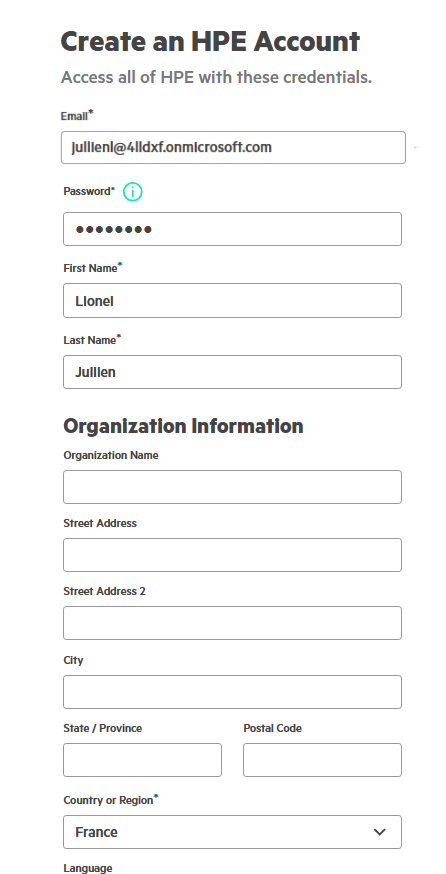
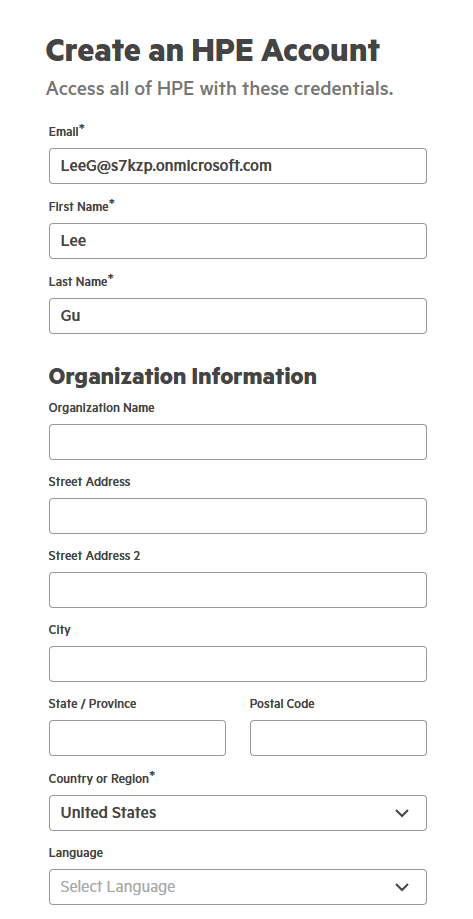
Update blog

diff --git a/_posts/2025-11-07-Configuring-SAML-SSO-with-HPE-GreenLake-and-Passwordless-Authentication-for-HPECOMCmdlets.md b/_posts/2025-11-07-Configuring-SAML-SSO-with-HPE-GreenLake-and-Passwordless-Authentication-for-HPECOMCmdlets.md
@@ -299,6 +299,8 @@ This completes the Entra ID application configuration for HPE GreenLake. You can
 
 ### Step 2: Register Entra ID in HPE GreenLake
 
+> **Learn More**: For detailed instructions on configuring SAML in HPE GreenLake, refer to the official [SAML-SSO authentication](https://support.hpe.com/hpesc/public/docDisplay?docId=a00120892en_us&page=GUID-D7192971-EF71-4304-B51E-548E7954E644.html#ariaid-title1) documentation.
+
 To complete the SAML SSO configuration, you need to register your Entra ID identity provider in HPE GreenLake and designate a workspace administrator:
 
 1. **Access Workspace Management**
@@ -311,16 +313,32 @@ To complete the SAML SSO configuration, you need to register your Entra ID ident
 
     Before registering the identity provider, you must designate a workspace administrator to finalize the SAML SSO configuration. This administrator's email address must belong to the domain you are claiming for SSO (e.g., `admin@your-sso-domain.com`).
 
-    - Navigate to the **Workspace identity & access** tile and select **Invite users**.
-    - Invite a user from your SAML domain and assign the **Workspace Administrator** HPE GreenLake role.
+    - Navigate to the **Identity & access management** tile:
 
-        [![]( {{ site.baseurl }}/assets/images/SAML-SSO/SAML-SSO-23.png)]( {{ site.baseurl }}/assets/images/SAML-SSO/SAML-SSO-23.png){:class="img-400"}{: data-lightbox="gallery"}
+        [![]( {{ site.baseurl }}/assets/images/SAML-SSO/SAML-SSO-22a.png)]( {{ site.baseurl }}/assets/images/SAML-SSO/SAML-SSO-22a.png){:class="img-100pct"}{: data-lightbox="gallery"}
 
-        > **Important**: The invited user must be a workspace administrator to complete the SAML domain setup. This user does not need to be a member of the identity provider security group configured in Step 1, but their email address must belong to the domain being claimed for SSO.
+    - Select **Add users**:
+
+        [![]( {{ site.baseurl }}/assets/images/SAML-SSO/SAML-SSO-22b.png)]( {{ site.baseurl }}/assets/images/SAML-SSO/SAML-SSO-22b.png){:class="img-100pct"}{: data-lightbox="gallery"}
+    
+    - In the **Add users** dialog, select **New user** and enter the email address of the designated administrator. This user must belong to the domain you intend to claim for SSO.     
+    
+        [![]( {{ site.baseurl }}/assets/images/SAML-SSO/SAML-SSO-22c.png)]( {{ site.baseurl }}/assets/images/SAML-SSO/SAML-SSO-22c.png){:class="img-700"}{: data-lightbox="gallery"}
+
+    - Click on **Assign role** and assign the built-in **Identity domain and SSO administrator** HPE GreenLake Platform role:
+
+        [![]( {{ site.baseurl }}/assets/images/SAML-SSO/SAML-SSO-22d.png)]( {{ site.baseurl }}/assets/images/SAML-SSO/SAML-SSO-22d.png){:class="img-400"}{: data-lightbox="gallery"}
+
+        > **Important**: The **Identity domain and SSO administrator** role grants the necessary permissions to configure the SAML domain. While a "Workspace Administrator" also has these permissions, this built-in role is specifically designed for this task. The user's email address must belong to the domain being claimed for SSO.
+
+    - Make sure **Send welcome invitation email** is checked then click **Add user**.
+
+        [![]( {{ site.baseurl }}/assets/images/SAML-SSO/SAML-SSO-23.png)]( {{ site.baseurl }}/assets/images/SAML-SSO/SAML-SSO-23.png){:class="img-700"}{: data-lightbox="gallery"}
+
 
     **Complete the claiming process:**
 
-    The invited user must complete the following steps to claim workspace administrator access:
+    The invited user must complete the following steps to claim Identity domain and SSO administrator access:
 
     1. Check email for the HPE GreenLake invitation and click **Accept invitation**.
         
@@ -329,57 +347,54 @@ To complete the SAML SSO configuration, you need to register your Entra ID ident
     2. Complete the HPE account creation form.
 
         [![]( {{ site.baseurl }}/assets/images/SAML-SSO/SAML-SSO-25.png)]( {{ site.baseurl }}/assets/images/SAML-SSO/SAML-SSO-25.png){:class="img-400"}{: data-lightbox="gallery"}
-
+    
     3. Check email again for the account activation message and click **Activate HPE account**.
 
         [![]( {{ site.baseurl }}/assets/images/SAML-SSO/SAML-SSO-26.png)]( {{ site.baseurl }}/assets/images/SAML-SSO/SAML-SSO-26.png){:class="img-600"}{: data-lightbox="gallery"}
 
-    4. Upon activation, the user will be redirected to the HPE GreenLake console and can log in to proceed with the SAML configuration.
+    6. Upon activation, the user will be redirected to the HPE GreenLake console and ask to choose a password for the account. 
+
+        [![]( {{ site.baseurl }}/assets/images/SAML-SSO/SAML-SSO-26a.png)]( {{ site.baseurl }}/assets/images/SAML-SSO/SAML-SSO-26a.png){:class="img-700"}{: data-lightbox="gallery"}
+
+    7. Once the password is defined, the user can log in to proceed with the SAML configuration.
+
+        [![]( {{ site.baseurl }}/assets/images/SAML-SSO/SAML-SSO-26b.png)]( {{ site.baseurl }}/assets/images/SAML-SSO/SAML-SSO-26b.png){:class="img-600"}{: data-lightbox="gallery"}
+
 
 3. **Register Identity Provider in HPE GreenLake**
 
-    With the workspace administrator successfully claimed and logged in, you can now proceed to configure the SAML identity provider connection. This step will establish the trust relationship between HPE GreenLake and your Entra ID tenant, enabling SSO authentication for all users in your verified domain.
+    With the workspace administrator successfully logged in, you can now register your identity provider and claim your domain for SSO. This process establishes the trust relationship between HPE GreenLake and your identity provider, enabling SSO for all users in your verified domain.
 
-    - Navigate again to **Manage Workspace** → **Authentication** 
+    - Navigate to **Manage Workspace** → **SSO configuration**.
 
-    - Click on **Add Domain** to setup-up your SAML domain 
+        [![]( {{ site.baseurl }}/assets/images/SAML-SSO/SAML-SSO-26c.png)]( {{ site.baseurl }}/assets/images/SAML-SSO/SAML-SSO-26c.png){:class="img-900"}{: data-lightbox="gallery"}
+
+    - Click **Add Domain** to begin the SAML domain setup.
+
+        [![]( {{ site.baseurl }}/assets/images/SAML-SSO/SAML-SSO-26d.png)]( {{ site.baseurl }}/assets/images/SAML-SSO/SAML-SSO-26d.png){:class="img-600"}{: data-lightbox="gallery"}
+
+    - Enter your domain name (e.g., `s7kzp.onmicrosoft.com`) and click **Continue**.
+
+        [![]( {{ site.baseurl }}/assets/images/SAML-SSO/SAML-SSO-27.png)]( {{ site.baseurl }}/assets/images/SAML-SSO/SAML-SSO-27.png){:class="img-600"}{: data-lightbox="gallery"}
+
+        > **Important**: An SSO domain can only be claimed by a single HPE GreenLake workspace. Once claimed, it cannot be used for SSO configuration in another workspace.
+
+    - Follow the on-screen instructions to verify domain ownership by adding the provided TXT record to your domain's DNS settings.
+
+        [![]( {{ site.baseurl }}/assets/images/SAML-SSO/SAML-SSO-27a.png)]( {{ site.baseurl }}/assets/images/SAML-SSO/SAML-SSO-27a.png){:class="img-600"}{: data-lightbox="gallery"}
+
+    - Wait for the domain claim to complete. This may take some time depending on DNS propagation.
+
+        [![]( {{ site.baseurl }}/assets/images/SAML-SSO/SAML-SSO-27b.png)]( {{ site.baseurl }}/assets/images/SAML-SSO/SAML-SSO-27b.png){:class="img-600"}{: data-lightbox="gallery"}
+
+    - Once the claim is complete, navigate back to **Manage Workspace** → **SSO configuration** and click **Create SSO connection**.     
     
-    - Enter your domain name (e.g., `4lldxf.onmicrosoft.com`)
+        [![]( {{ site.baseurl }}/assets/images/SAML-SSO/SAML-SSO-27c.png)]( {{ site.baseurl }}/assets/images/SAML-SSO/SAML-SSO-27c.png){:class="img-600"}{: data-lightbox="gallery"}
 
-       [![]( {{ site.baseurl }}/assets/images/SAML-SSO/SAML-SSO-27.png)]( {{ site.baseurl }}/assets/images/SAML-SSO/SAML-SSO-27.png){:class="img-600"}{: data-lightbox="gallery"}
+    - On the **Create SSO connection** page, enter a descriptive **SSO connection name** (e.g., `Entra ID SSO`). Ensure **SAML 2.0** is selected as the authentication protocol, then click **Next**.     
+    
+        [![]( {{ site.baseurl }}/assets/images/SAML-SSO/SAML-SSO-27d.png)]( {{ site.baseurl }}/assets/images/SAML-SSO/SAML-SSO-27d.png){:class="img-600"}{: data-lightbox="gallery"}
 
-    - Configure the authorization method based on your SAML attribute configuration:
-
-        - **If you configured `hpe_ccs_attribute` in Step 1**: 
-            - Select **Use the SSO SAML response for session-based authorization**.
-
-              [![]( {{ site.baseurl }}/assets/images/SAML-SSO/SAML-SSO-28.png)]( {{ site.baseurl }}/assets/images/SAML-SSO/SAML-SSO-28.png){:class="img-100pct"}{: data-lightbox="gallery"}     
-              
-              This option enables role-based access control (RBAC) by using the `hpe_ccs_attribute` from your SAML response to dynamically assign user permissions in HPE GreenLake. Users are authenticated and assigned access to workspaces and roles during each SSO session.
-        
-        - **If you did not configure `hpe_ccs_attribute` in Step 1**:
-            
-            - Select **Manage authorization locally via the GreenLake Platform**. 
-            
-              [![]( {{ site.baseurl }}/assets/images/SAML-SSO/SAML-SSO-28b.png)]( {{ site.baseurl }}/assets/images/SAML-SSO/SAML-SSO-28b.png){:class="img-100pct"}{: data-lightbox="gallery"}
-
-              With this option, you'll manually create users and assign roles and permissions to them within HPE GreenLake to provide user access to workspaces after they authenticate through the identity provider. To do this:
-            
-              1. Navigate to **Manage Workspace** → **Workspace Identity & Access**.
-              2. Click **Invite users** and enter the user's email address.
-
-                  > **Important**: The user's email address **must** belong to the SSO-claimed domain (e.g., `user@your-sso-domain.com`).
-                  
-              3. Assign the desired roles and permissions for the user.
-              4. The user will receive an invitation and can log in via SSO. Their access will be determined by the roles you assigned in HPE GreenLake.     
-
-    - On the next page, you have two options to provide the identity provider metadata:
-
-        - **Metadata URL** (Recommended): Enter the App Federation Metadata URL copied from Entra ID in Step 1. This future-proofs your configuration by enabling seamless automatic certificate retrieval and updates once HPE GreenLake supports it (feature under consideration as of November 2025). It ensures uninterrupted authentication and eliminates manual interventions during Entra ID's standard 3-year certificate rotations.
-
-            [![]( {{ site.baseurl }}/assets/images/SAML-SSO/SAML-SSO-29a.png)]( {{ site.baseurl }}/assets/images/SAML-SSO/SAML-SSO-29a.png){:class="img-600"}{: data-lightbox="gallery"}
-
-        - **Metadata File**: Upload the Federation Metadata XML file downloaded from Entra ID in Step 1. Note that this method requires manual updates to the file in HPE GreenLake every time Entra ID rotates its signing certificate (typically every 3 years), which could lead to temporary authentication disruptions if not addressed promptly.
 
     - On the **Map SAML attributes** page, review the default configuration settings. These attribute mappings should correspond to the claims you configured in Entra ID during Step 1. Verify that the following mappings are present:
 
@@ -391,20 +406,73 @@ To complete the SAML SSO configuration, you need to register your Entra ID ident
         | **hpe_ccs_attribute** | (if configured) |
 
         > **Note**: These mappings enable HPE GreenLake to properly identify users and apply the appropriate permissions based on the SAML assertion received from Entra ID.
+  
+        [![]( {{ site.baseurl }}/assets/images/SAML-SSO/SAML-SSO-27e.png)]( {{ site.baseurl }}/assets/images/SAML-SSO/SAML-SSO-27e.png){:class="img-600"}{: data-lightbox="gallery"}
+
+    - The UI then display the different service provider detais that we have used earlier to set our "HPE GreenLake" application in Entra ID, click **Next**:
+
+        [![]( {{ site.baseurl }}/assets/images/SAML-SSO/SAML-SSO-27f.png)]( {{ site.baseurl }}/assets/images/SAML-SSO/SAML-SSO-27f.png){:class="img-600"}{: data-lightbox="gallery"}
+
+    - On the **Add identity provider details** page, you will configure the connection to your identity provider. While three methods are available, using the metadata URL is the only recommended approach.
+
+        [![]( {{ site.baseurl }}/assets/images/SAML-SSO/SAML-SSO-29a.png)]( {{ site.baseurl }}/assets/images/SAML-SSO/SAML-SSO-29a.png){:class="img-600"}{: data-lightbox="gallery"}
+
+        - **Specify a metadata URL (Recommended)**: Select this option and paste the **App Federation Metadata Url** copied from your identity provider in Step 1. Click **Validate URL** to automatically populate the configuration details.
+
+           > **Why this is the best practice**: Using the metadata URL future-proofs your configuration. Although HPE GreenLake does not yet auto-refresh certificates (as of Nov 2025), this method positions you for seamless updates when the feature becomes available, preventing future authentication outages caused by certificate rotation.
+
+        - **Upload a metadata XML file (Not Recommended)**: This method requires you to manually re-upload the file every time your identity provider's signing certificate rotates, risking authentication downtime.
+
+        - **Manual entry of configuration details (Not Recommended)**: This approach is error-prone and carries the same risk of authentication failure during certificate rotation as the XML upload method.
+
+    - After validating the URL, the configuration details, including the SSO URL and X.509 certificate, will be populated automatically. Click **Next**.
+
+        [![]( {{ site.baseurl }}/assets/images/SAML-SSO/SAML-SSO-29b.png)]( {{ site.baseurl }}/assets/images/SAML-SSO/SAML-SSO-29b.png){:class="img-600"}{: data-lightbox="gallery"}
+
+    - At the session timeout page, enter the desired session duration (e.g., 30 minutes) and click **Next**.
+
+        [![]( {{ site.baseurl }}/assets/images/SAML-SSO/SAML-SSO-29c.png)]( {{ site.baseurl }}/assets/images/SAML-SSO/SAML-SSO-29c.png){:class="img-600"}{: data-lightbox="gallery"}
+
+    - At the **Review and create**, verify your settings and click **Create SSO connection**
+
+        [![]( {{ site.baseurl }}/assets/images/SAML-SSO/SAML-SSO-29d.png)]( {{ site.baseurl }}/assets/images/SAML-SSO/SAML-SSO-29d.png){:class="img-600"}{: data-lightbox="gallery"}
+
+
+    - Once the SSO Connection is complete, navigate again to **SSO configuration**, then select **Create authentication policy**
 
         [![]( {{ site.baseurl }}/assets/images/SAML-SSO/SAML-SSO-30.png)]( {{ site.baseurl }}/assets/images/SAML-SSO/SAML-SSO-30.png){:class="img-600"}{: data-lightbox="gallery"}
 
-    - Create the recovery user per the instructions
+    -  Select **Verified domain** for domain type, select your claimed domain and your SSO connection just created:
 
-        [![]( {{ site.baseurl }}/assets/images/SAML-SSO/SAML-SSO-31.png)]( {{ site.baseurl }}/assets/images/SAML-SSO/SAML-SSO-31.png){:class="img-600"}{: data-lightbox="gallery"}
+        [![]( {{ site.baseurl }}/assets/images/SAML-SSO/SAML-SSO-30.png)]( {{ site.baseurl }}/assets/images/SAML-SSO/SAML-SSO-30.png){:class="img-600"}{: data-lightbox="gallery"}
 
-    - Review all configuration settings carefully to ensure accuracy, then click **Finish** 
+    - Configure the authorization method based on your SAML attribute configuration:
 
-        [![]( {{ site.baseurl }}/assets/images/SAML-SSO/SAML-SSO-32.png)]( {{ site.baseurl }}/assets/images/SAML-SSO/SAML-SSO-32.png){:class="img-600"}{: data-lightbox="gallery"}
+        - **If you configured `hpe_ccs_attribute` in Step 1**: 
+            - Select **SSO role assignments**.
 
-    - This completes the identity provider registration and activate SAML SSO for your domain
+              [![]( {{ site.baseurl }}/assets/images/SAML-SSO/SAML-SSO-31.png)]( {{ site.baseurl }}/assets/images/SAML-SSO/SAML-SSO-31.png){:class="img-700"}{: data-lightbox="gallery"}     
+              
+              This option enables role-based access control (RBAC) by using the `hpe_ccs_attribute` from your SAML response to dynamically assign user permissions in HPE GreenLake. Users are authenticated and assigned access to workspaces and roles during each SSO session.
+        
+        - **If you did not configure `hpe_ccs_attribute` in Step 1**:
+            
+            - Select **Local role assignments**. 
+            
+              [![]( {{ site.baseurl }}/assets/images/SAML-SSO/SAML-SSO-32.png)]( {{ site.baseurl }}/assets/images/SAML-SSO/SAML-SSO-32.png){:class="img-700"}{: data-lightbox="gallery"}
 
-        [![]( {{ site.baseurl }}/assets/images/SAML-SSO/SAML-SSO-33.png)]( {{ site.baseurl }}/assets/images/SAML-SSO/SAML-SSO-33.png){:class="img-600"}{: data-lightbox="gallery"}
+              With this option, you'll manually create users and assign roles and permissions to them within HPE GreenLake to provide user access to workspaces after they authenticate through the identity provider. To do this:
+            
+              1. Navigate to **Manage Workspace** → **Identity & access management**.
+              2. Click **Invite users** and enter the user's email address.
+
+                  > **Important**: The user's email address **must** belong to the SSO-claimed domain (e.g., `user@your-sso-domain.com`).
+
+              3. Assign the desired roles and permissions for the user.
+              4. The user will receive an invitation and can log in via SSO. Their access will be determined by the roles you assigned in HPE GreenLake.     
+
+
+
         
 ### Step 3: Testing SAML SSO Authentication
 
